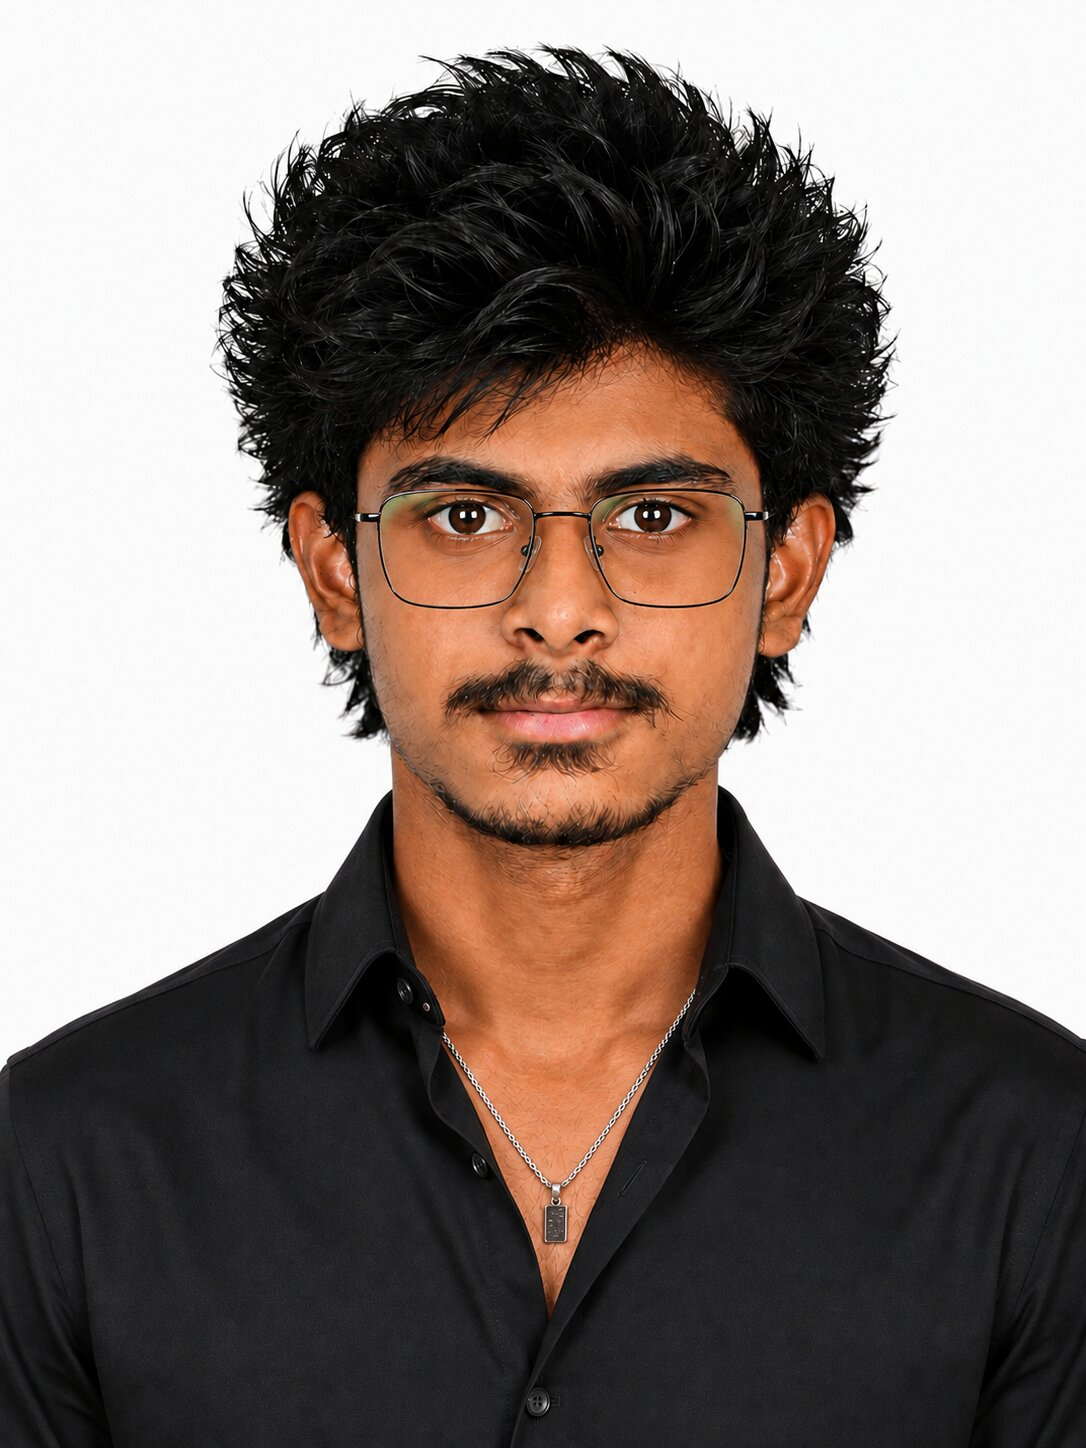
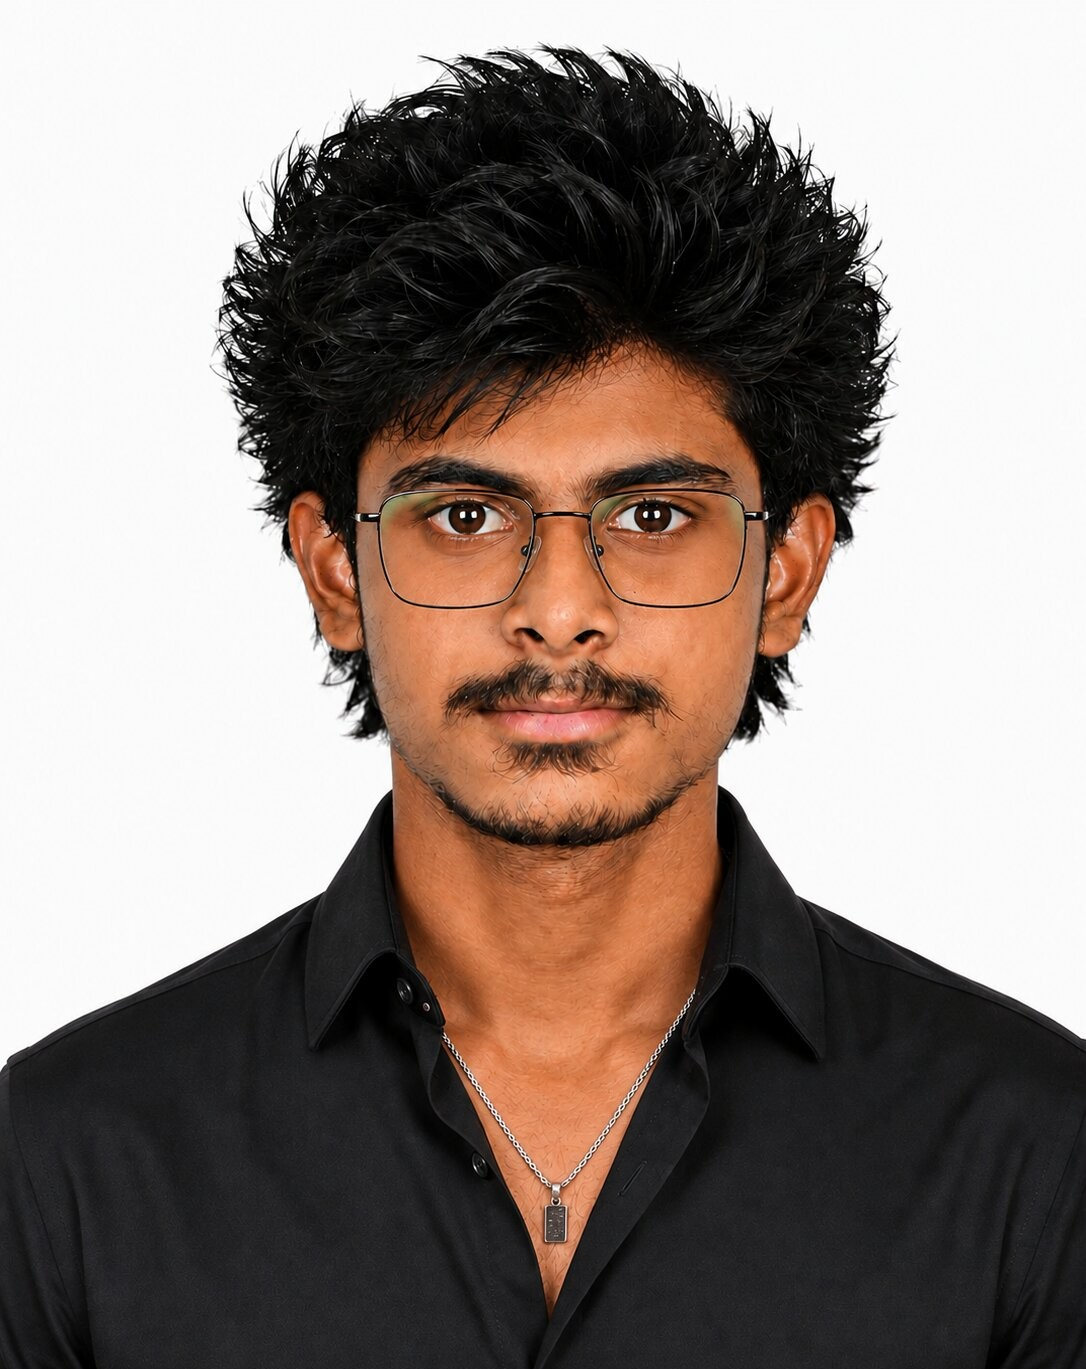
Updated homepage, profile image, and database

diff --git a/templates/index.html b/templates/index.html
@@ -17,7 +17,7 @@
     <section class="portfolio section" id="work"><div class="section-heading"><div><p class="eyebrow">Selected stories</p><h2>Frames with feeling.</h2></div></div><div class="gallery"><figure class="tall"><img src="{{ url_for('static', filename='images/photo1.jpg') }}" alt="Wedding portrait"><figcaption>Forever begins here</figcaption></figure><figure><img src="{{ url_for('static', filename='images/photo3.jpg') }}" alt="Celebration photography"><figcaption>Made to celebrate</figcaption></figure><figure><img src="{{ url_for('static', filename='images/photo5.jpg') }}" alt="Outdoor photography"><figcaption>Little moments, fully felt</figcaption></figure><figure><img src="{{ url_for('static', filename='images/photo2.jpg') }}" alt="Portrait photography"><figcaption>Portraits with presence</figcaption></figure></div></section>
     <section class="about section" id="about"><img src="{{ url_for('static', filename='images/profile.jpg') }}" alt="Adhi, photographer"><div><p class="eyebrow">Behind the lens</p><h2>Hello, I’m Adhi.</h2><p>I believe the best photographs are never over-directed. I’ll guide you when you need it, disappear when the magic is happening, and deliver a gallery that brings the day back to life.</p><a class="text-link" href="#booking">Let’s make something lasting <span>→</span></a></div></section>
     <section class="store-callout"><div><p class="eyebrow">Take the story home</p><h2>Turn your favourite frames into an heirloom.</h2><p>Explore handcrafted albums, gift-ready story books and fine-art prints in the Story Store.</p><a class="button" href="{{ url_for('shop') }}">Visit Story Store</a></div><img src="{{ url_for('static', filename='images/photo6.jpg') }}" alt="Printed photography album"></section>
-    <section class="booking section" id="booking"><div class="booking-copy"><p class="eyebrow">Start a conversation</p><h2>Tell us about your day.</h2><p>Share a few details and we’ll reply within two working days with availability and a tailored quote.</p></div><form action="{{ url_for('book') }}" method="post" class="booking-form"><div class="form-row"><label>Full name<input required name="name" autocomplete="name"></label><label>Email address<input required type="email" name="email" autocomplete="email"></label></div><div class="form-row"><label>Phone number<input required type="tel" name="phone" autocomplete="tel"></label><label>Event type<select required name="service"><option value="" disabled selected>Select one</option><option>Wedding Photography</option><option>Birthday Photography</option><option>Event Photography</option><option>Portrait Session</option><option>Brand Content</option></select></label></div><div class="form-row"><label>Event date<input required type="date" name="booking_date"></label><label>City / venue<input name="location" placeholder="e.g. Coimbatore"></label></div><label>Your vision<textarea name="message" rows="4" placeholder="Tell us about the people, place and moments you don't want to miss."></textarea></label>{% with messages = get_flashed_messages(with_categories=true) %}{% for category, message in messages %}<p class="form-message {{ category }}">{{ message }}</p>{% endfor %}{% endwith %}<button class="button" type="submit">Send enquiry <span>→</span></button></form></section>
+    <section class="booking section" id="booking"><div class="booking-copy"><p class="eyebrow">Start a conversation</p><h2>Tell us about your day.</h2><p>Share a few details and we’ll reply within two working days with availability and a tailored quote.</p></div><form action="{{ url_for('book') }}" method="post" class="booking-form"><div class="form-row"><label>Full name<input required name="name" autocomplete="name"></label><label>Email address<input required type="email" name="email" autocomplete="email"></label></div><div class="form-row"><label>Phone number<input required type="tel" name="phone" autocomplete="tel"></label><label>Event type<select required name="service"><option value="" disabled selected>Select one</option><option>Wedding Photography</option><option>Birthday Photography</option><option>Event Photography</option><option>Portrait Session</option><option>Brand Content</option></select></label></div><div class="form-row"><label>Event date<input required type="date" name="booking_date"></label><label>City / venue<input name="location" placeholder="e.g. Coimbatore"></label></div><label>Your vision<textarea name="message" rows="4" placeholder="Tell us about the people, place and moments you don't want to miss."></textarea></label>{% with messages = get_flashed_messages(with_categories=true) %}{% for category, message in messages %}<p class="form-message {{ category }}">{{ message }}</p>{% endfor %}{% endwith %}<button class="button" type="submit">Book Now <span>→</span></button></form></section>
   </main>
   <footer><a class="brand" href="#home">AK <span>CLICKS</span></a><p>Photography for the days you’ll want to relive.</p><div><a href="https://www.instagram.com/_ak_clicks_20/" target="_blank" rel="noopener">Instagram</a><a href="mailto:adhiats@gmail.com">Email</a><a href="{{ url_for('login') }}">Studio login</a></div><small>© {{ year }} AK CLICKS. All rights reserved.</small></footer>
   <script src="{{ url_for('static', filename='js/script.js') }}"></script>
